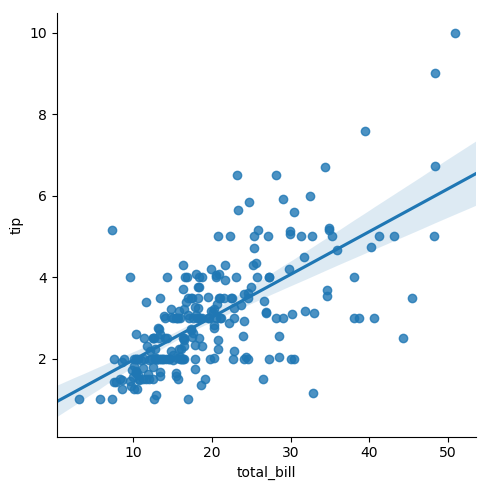
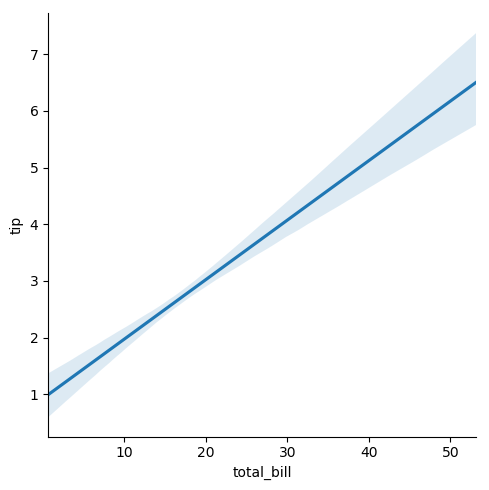
Import data_loc and graph settings from ini

diff --git a/DataVis.py b/DataVis.py
@@ -24,7 +24,7 @@ except ImportError:
 #Create main window
 root = Tk.Tk()
 
-print(font.names())
+#print(font.names()) #all available fonts
 myfont = font.nametofont('TkDefaultFont')
 myfont.configure(size=24)
 data = sns.load_dataset('Iris')
@@ -78,63 +78,93 @@ def Create_Listbox(window, list_items):
 
 def EDA_onSelect(evt):
     w = evt.widget
-    #print(w.curselection())
     if(w.curselection()):
-        #print(w.curselection())
-        #clear_fig()
         #Get data about current selection
         index = int(w.curselection()[0])
         value = w.get(index)
-        #Read ini file to check for presets
-        config.read('test.ini')
+        #Check ini for graph settings
+        config.read('datavis.ini')
+        #Display 'please stand by' image
         fig.clear()
         a = fig.add_subplot(111)
         img_arr = mpimg.imread('PSB.png')
         a.imshow(img_arr)
         a.axis('off')
         EDA_Canvas.draw()
-        #Pairplot
-        if(index==0):
-            if(config.has_section('Pairplot')):
-                #use custom vals for fig creation
-                print('You selected item %d: "%s"' % (index, value))
-            else:
-                #go with default fig creation
-                print('You selected item %d: "%s"' % (index, value))
-                data = sns.load_dataset('Iris')
+
+        if(index==0): #pairplot
+            if(config.has_section('pairplot') and config.has_section('general')): #use custom vals for fig creation
+                #import user data set
+                data_loc = config.get('general', 'dataset_location')
+                data = pd.read_csv(data_loc, encoding='latin-1')
                 data = data.dropna()
-                pp = sns.pairplot(data=data, kind='reg')
+                #import user graph settings
+                pp_hue = config.get('pairplot', 'hue') #which column determines color of points
+                pp_vars = config.get('pairplot', 'vars') #which columns to use in plot
+                pp_kind = config.get('pairplot', 'kind') #fit regression line?
+                pp_diag_kind = config.get('pairplot', 'diag_kind') #which graphs to use along diagonal
+                #create and display custom graph
+                pp = sns.pairplot(data=data, hue=pp_hue, vars=pp_vars, kind=pp_kind, diag_kind=pp_diag_kind)
                 pp.savefig('pp.png')
-                #xList=[1,2,3,4]
-                #yList=[2,4,8,16]
                 fig.clear()
                 a = fig.add_subplot(111)
                 img_arr = mpimg.imread('pp.png')
                 a.imshow(img_arr)
                 a.axis('off')
-                #a.plot(xList, yList)
                 EDA_Canvas.draw()
-        #Correlation matrix
-        elif(index==1):
-            if(config.has_section('Correlation')):
-                #use custom vals for fig creation
-                print('You selected item %d: "%s"' % (index, value))
-            else:
-                #go with default fig creation
-                data = sns.load_dataset("titanic")
+            else: #go with default fig creation
+                data = sns.load_dataset('Iris')
+                data = data.dropna()
+                pp = sns.pairplot(data=data, kind='reg', hue='species')
+                pp.savefig('pp.png')
+                fig.clear()
+                a = fig.add_subplot(111)
+                img_arr = mpimg.imread('pp.png')
+                a.imshow(img_arr)
+                a.axis('off')
+                EDA_Canvas.draw()
+        elif(index==1): #correlation matrix
+            if(config.has_section('correlation') and config.has_section('general')): #use custom vals for fig creation
+                #import user data set
+                data_loc = config.get('general', 'dataset_location')
+                data = pd.read_csv(data_loc, encoding='latin-1')
+                data = data.dropna()
+                data = data.corr()
+                #import user graph settings
+                cm_annot = config.getboolean('correlation', 'annot') #print numbers in cells?
+                cm_cbar = config.getboolean('correlation', 'cbar') #show colobar?
+                cm_square = config.getboolean('correlation', 'square') #make cells square?
+                fig.clear()
+                a = fig.add_subplot(111)
+                #create and display custom graph
+                sns.heatmap(data=data, annot=cm_annot, cbar=cm_cbar, square=cm_square, ax=a)
+                EDA_Canvas.draw()
+            else: #go with default fig creation
+                data = sns.load_dataset('titanic')
                 data = data.dropna()
                 data = data.corr()
                 fig.clear()
                 a = fig.add_subplot(111)
                 sns.heatmap(data=data, ax=a)
                 EDA_Canvas.draw()
-        #Bar chart
-        elif (index==2):
-            if(config.has_section('Bar Chart')):
-                #use custom vals for fig creation
-                print('You selected item %d: "%s"' % (index, value))
-            else:
-                #go with default fig creation
+        elif (index==2): #bar chart
+            if(config.has_section('bar') and config.has_section('general')): #use custom vals for fig creation
+                #import user data set
+                data_loc = config.get('general', 'dataset_location')
+                data = pd.read_csv(data_loc, encoding='latin-1')
+                data = data.dropna()
+                #import user graph settings
+                bp_x = config.get('bar', 'x') #x var
+                bp_y = config.get('bar', 'y') #y var
+                bp_hue = config.get('bar', 'hue') #hue column
+                bp_ci = config.get('bar', 'ci') #confidence intervals
+                bp_orient = config.get('bar', 'orient') #vertical or horizontal
+                fig.clear()
+                a = fig.add_subplot(111)
+                #create and display custom graph
+                sns.barplot(data=data, x=bp_x, y=bp_y, hue=bp_hue, ci=bp_ci, orient=bp_orient, ax=a)
+                EDA_Canvas.draw()
+            else: #go with default fig creation
                 data = sns.load_dataset("flights")
                 data = data.dropna()
                 fig.clear()
@@ -143,15 +173,30 @@ def EDA_onSelect(evt):
                 EDA_Canvas.draw()
         #Scatter plot
         elif (index==3):
-            if(config.has_section('Scatter Plot')):
-                #use custom vals for fig creation
-                print('You selected item %d: "%s"' % (index, value))
-            else:
-                #go with default fig creation
+            if(config.has_section('scatter') and config.has_section('general')): #use custom vals for fig creation
+                #import user data set
+                data = config.get('general', 'dataset_location')
+                data = data.dropna()
+                #import user graph settings
+                sp_x = config.get('scatter', 'x') #x var
+                sp_y = config.get('scatter', 'y') #y var
+                sp_hue = config.get('scatter', 'hue') #hue column
+                sp_legend = config.getboolean('scatter', 'legend') #display legend?
+                sp_fit_reg = config.get('scatter', 'fit_reg') #fit linear regression line?
+                #create and display custom graph
+                sp = sns.lmplot(data=data, x=sp_x, y=sp_y, hue=sp_hue, fit_reg=sp_fit_reg)
+                sp.savefig('sp.png')
+                fig.clear()
+                a = fig.add_subplot(111)
+                img_arr = mpimg.imread('sp.png')
+                a.imshow(img_arr)
+                a.axis('off')
+                EDA_Canvas.draw()
+            else: #go with default fig creation
                 print('You selected item %d: "%s"' % (index, value))
                 data = sns.load_dataset("tips")
                 data = data.dropna()
-                sp = sns.lmplot(data=data, x="total_bill", y="tip")
+                sp = sns.lmplot(data=data, x="total_bill", y="tip", scatter=False)
                 sp.savefig('sp.png')
                 fig.clear()
                 a = fig.add_subplot(111)
@@ -168,7 +213,7 @@ def EDA_onSelect(evt):
                 EDA_Canvas.draw()
         #PCA
         elif (index==4):
-            if(config.has_section('PCA')):
+            if(config.has_section('PCA') and config.has_section('general')):
                 #use custom vals for fig creation
                 print('You selected item %d: "%s"' % (index, value))
             else:
